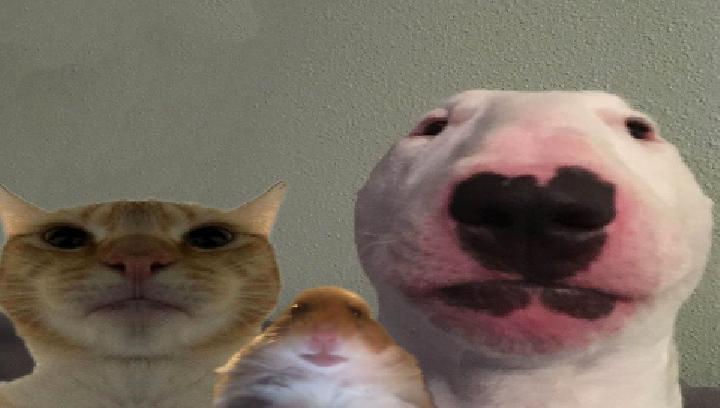
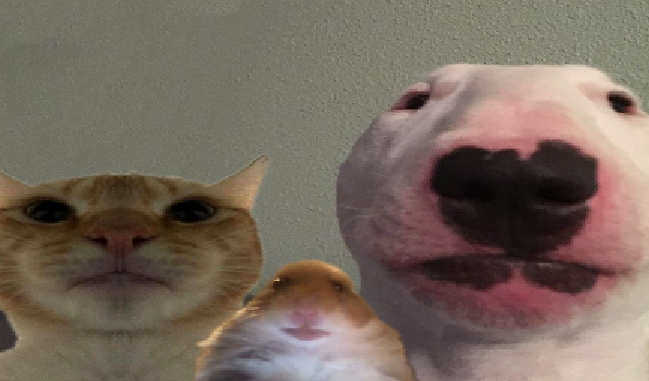
worked on some css

diff --git a/client/src/components/pages/Skeleton.js b/client/src/components/pages/Skeleton.js
@@ -5,6 +5,7 @@ import "./Game.js";
 import image_coming from'./highcouncil.png';
 
 
+
 //TODO: REPLACE WITH YOUR OWN CLIENT_ID
 const GOOGLE_CLIENT_ID = "929690839465-7el5elpd43lv4fgmh53vvcfegqbp961n.apps.googleusercontent.com";
 
@@ -22,17 +23,18 @@ class Skeleton extends Component {
   render() {
     return (
       <>
-      <p className="gamename">  The Vesta Verdict  </p>
+      <p className="Skeleton-gamename">  The Vesta Verdict  </p>
 
-      <div className="pic">
+      <div className="Skeleton-pic">
         <img src={image_coming} alt="council" />
       </div>
       
-      <p className="para">
-      Choose your role and prove your innocence. This will be more of a paragraph! Hopefully it will make people want to play our game :D Any suggestions about relative info to be
-included here?
-
+      <p className="Skeleton-paraheader">
+      Choose your role and prove your innocence.
       </p>
+      <div className="Skeleton-paragraph">
+        The sacred flames have gone out, and the council believes you are to blame.
+      </div>
       </>
     );
   }

diff --git a/client/src/components/pages/Skeleton.css b/client/src/components/pages/Skeleton.css
@@ -1,5 +1,6 @@
 /* Fill me in :) */
 
+
 :root {
   --white: #fff;
   --red: #ff0000;
@@ -43,46 +44,31 @@
   opacity: 0.65;
 }
 
-.center {
-  display: block;
-  margin-left: auto;
-  margin-right: auto;
+
+.Skeleton-pic {
+  margin: auto;
   width: 50%;
 }
 
-.pic {
-  display: block;
-  margin-left: 280px;
-  margin-right: 350px;
-  width: 50%;
 
-}
-
-
-html,
-body {
-  margin: 0;
-  padding: 0 0 4 0;
-  background-color: b2dbdb;
-  opacity: 1;
-}
-
-p.gamename {
+.Skeleton-gamename {
     border-style: groove;
     text-align: center;
     font-size: x-large;
-    font-family: Georgia;
+    font-family: Cambria;
+    margin-top: 0;
 }
 
 
-.para {
+.Skeleton-paraheader {
   text-align: center;
-  margin-left: 25%;
-  margin-right: 25%;
-  font-family: Georgia;
-  color: 546978;
-  display: flex;
-  position: relative;
-  text-align: center;
+  font-size: x-large;
+  font-family: Cambria;
+  }
+
   
+.Skeleton-paragraph {
+  text-align: center;
+  font-size: medium;
+  font-family: Cambria;
   }

diff --git a/client/src/components/pages/navbar.js b/client/src/components/pages/navbar.js
@@ -4,6 +4,7 @@ import GoogleLogin, { GoogleLogout } from "react-google-login";
 import "../../utilities.css";
 import "./navbar.css";
 
+
 // This identifies your application to Google's authentication service
 const GOOGLE_CLIENT_ID = "929690839465-7el5elpd43lv4fgmh53vvcfegqbp961n.apps.googleusercontent.com";
 
